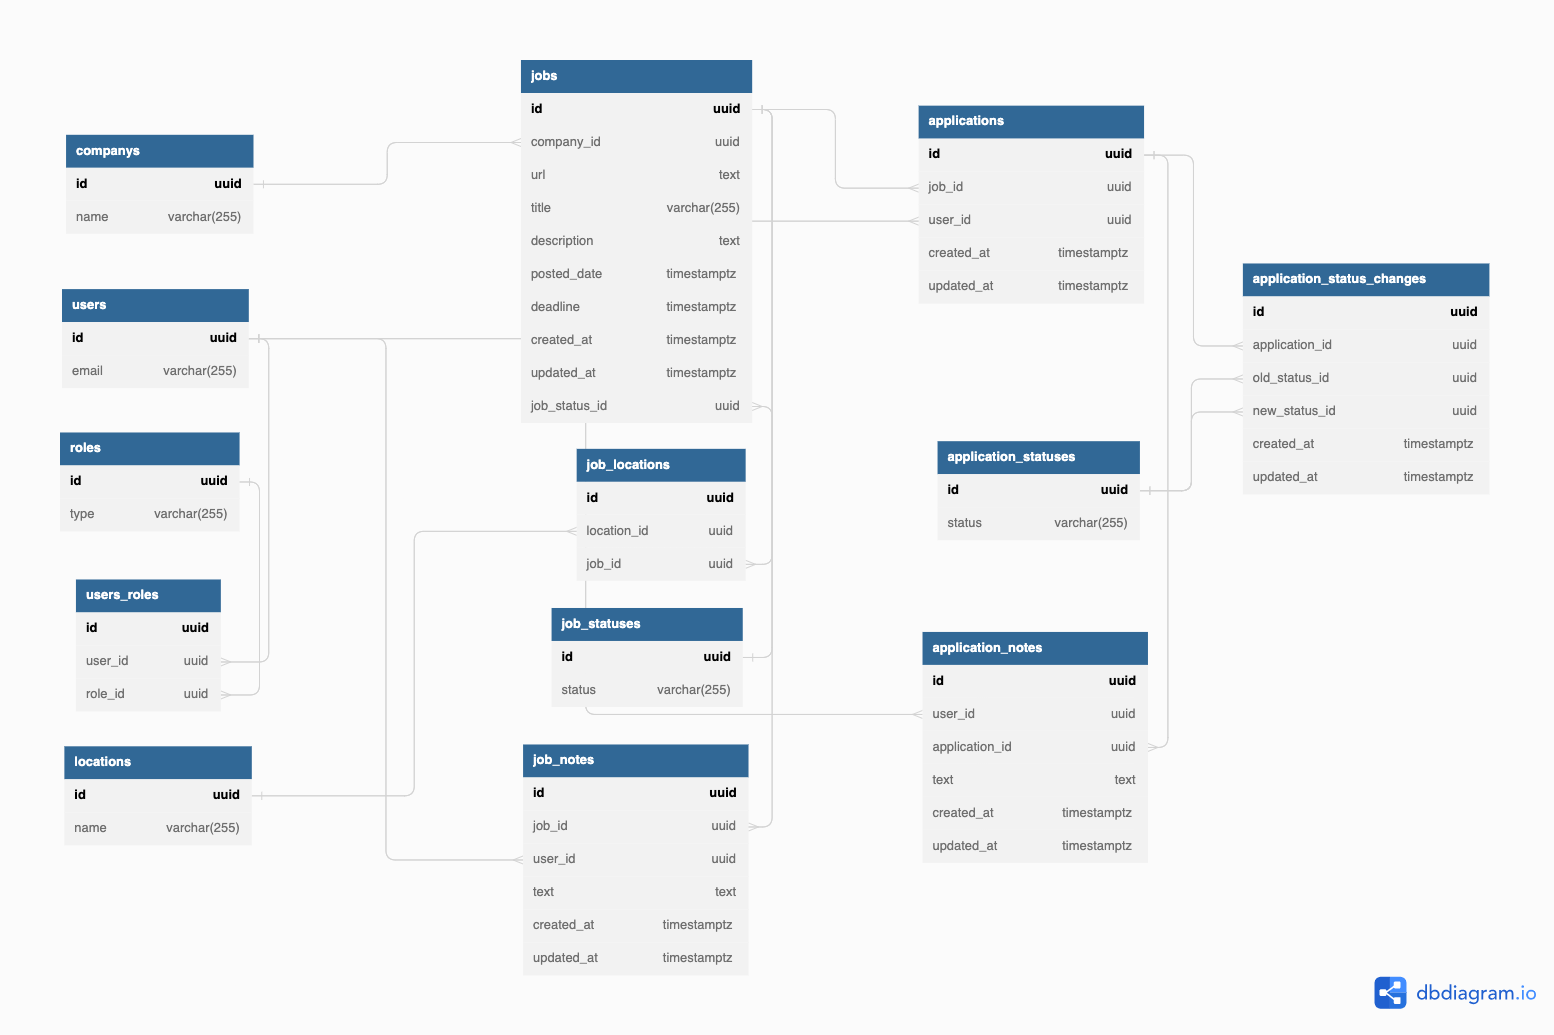
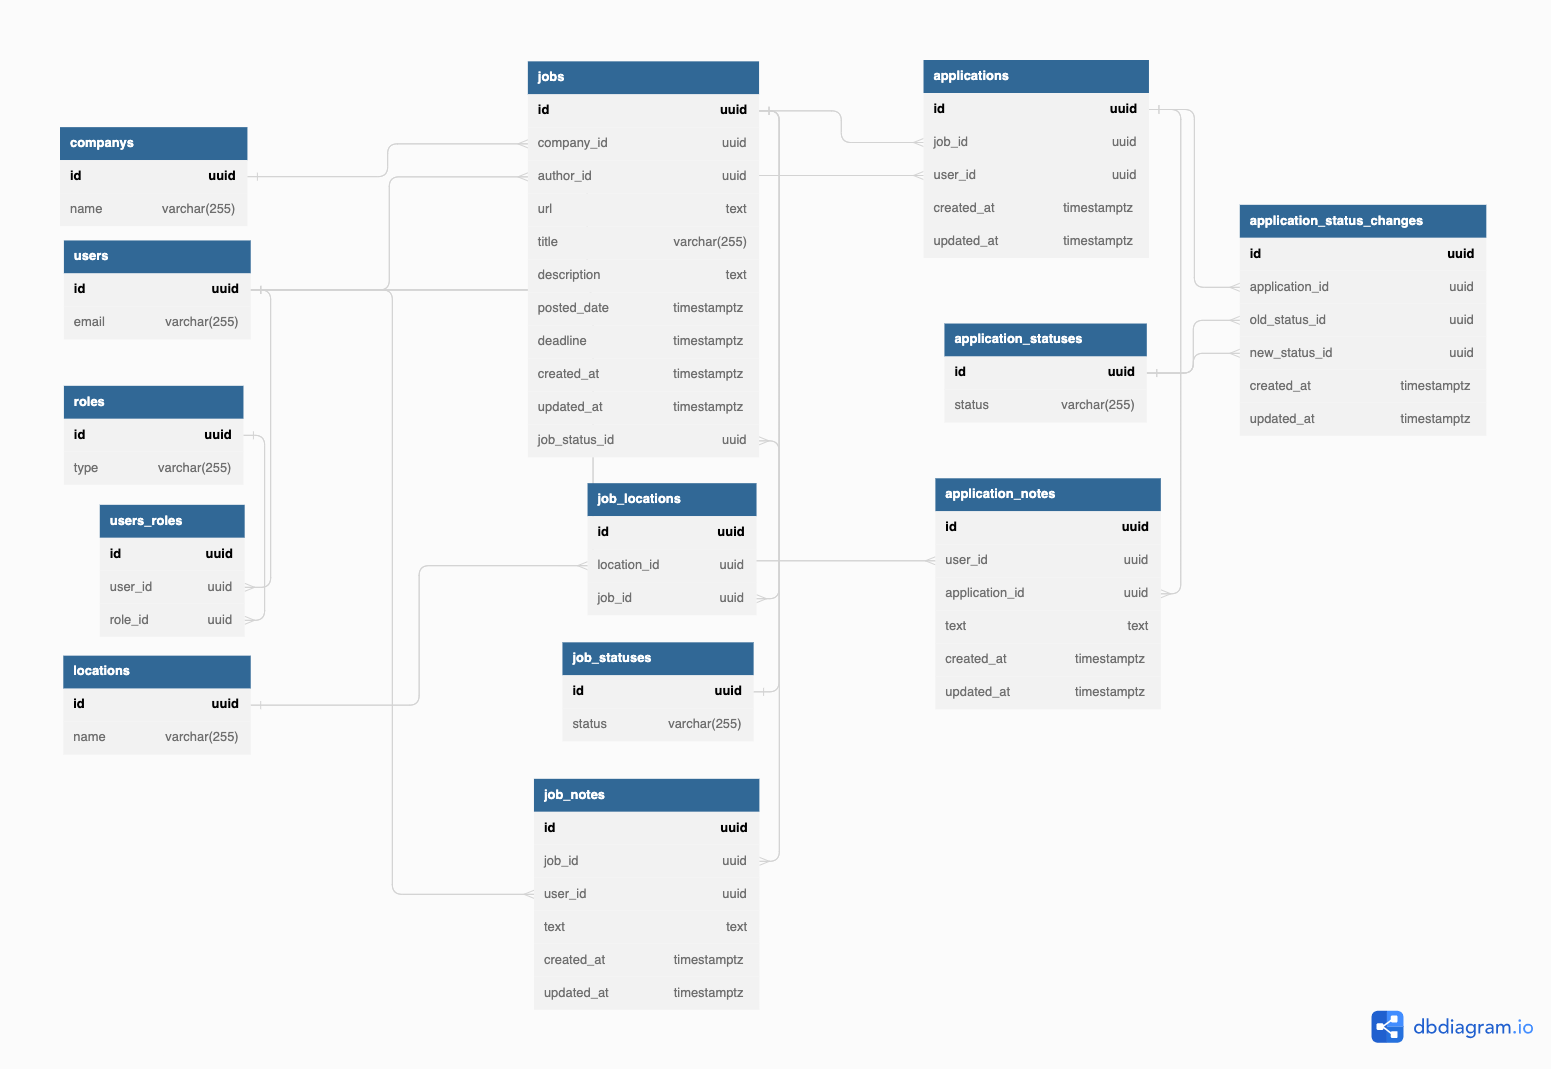
Include reference to user who posted job
This unlocks future implementations of auth / permissions
where a job can be edited or deleted only by the person who
added it (and an admin).

This involved adding a foreign key to `users` in the `jobs` table,
as well as updates to the `jobs_joined` view and the seeds file.

diff --git a/README.md b/README.md
@@ -43,6 +43,14 @@ It will also help users understand who is applying to which jobs, who is applyin
 - I can edit a job or company
 - I can delete notes (e.g., for content moderation)
 
+## About permissions
+- In general, a user who creates something should have the power to edit or delete it.
+- Admins need write permissions over everything to prevent chaos and keep the data neat.
+- There is the potential for bad actions, for example marking a job as "closed" so no one 
+other users have the opportunity to apply for it. We can mitigate this by:
+    - not letting users edit an job or application they didn't create (they can add a note instead)
+    - allowing admins write permissions to correct malicious actions like this
+
 ## Endpoints
 |Route|Methods|Notes|
 |-----|-------|-----|
